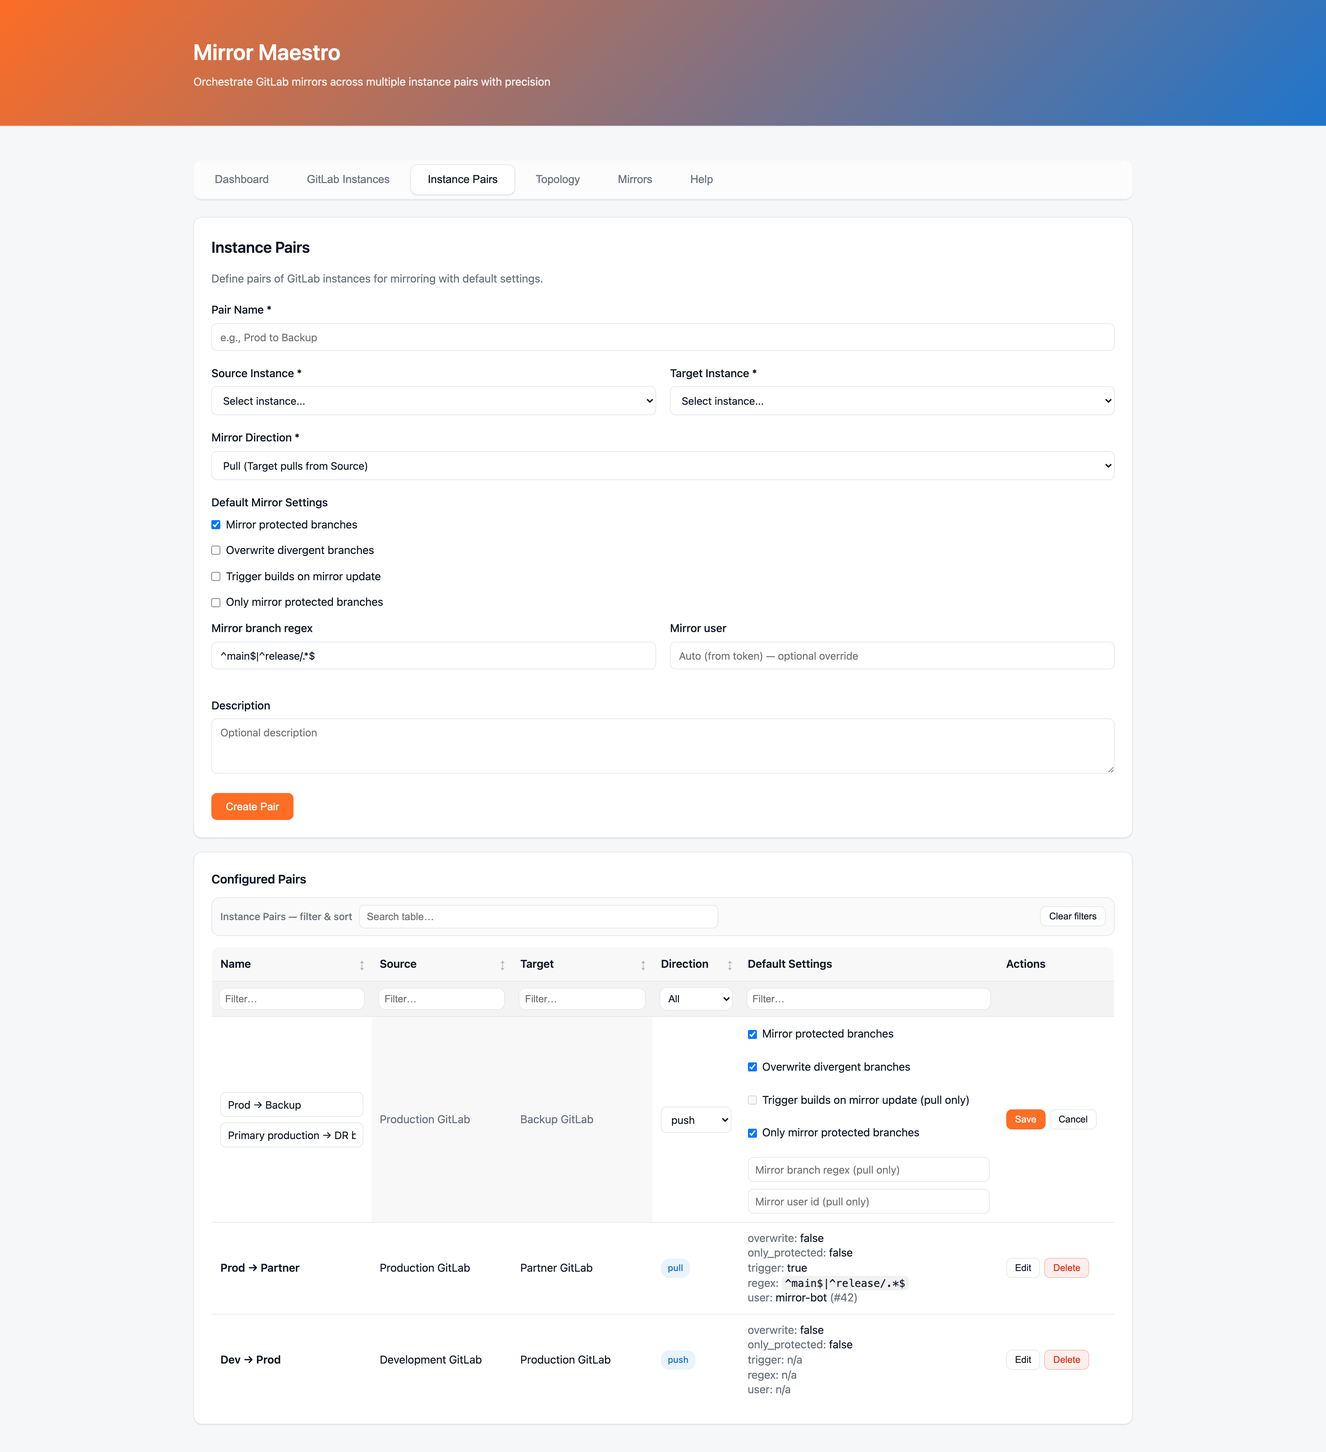
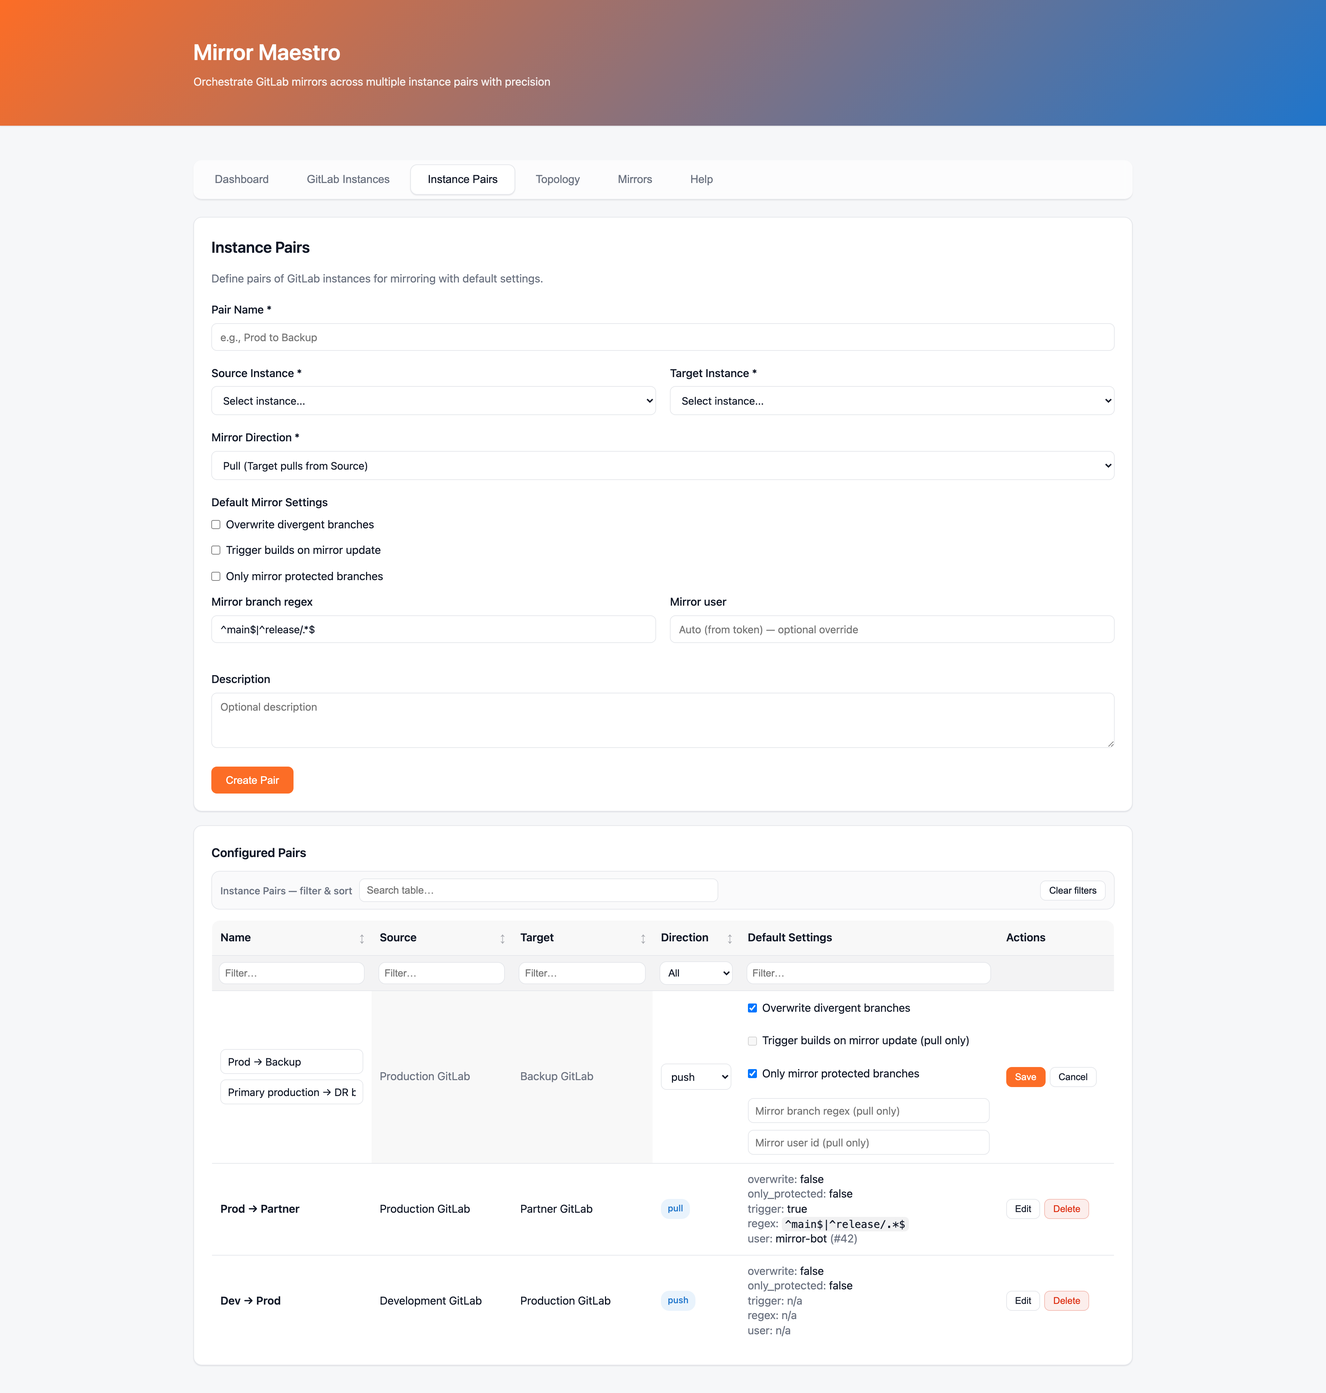
fix: Remove dead mirror_protected_branches field
This field was stored but never sent to GitLab's API. Only
only_mirror_protected_branches (mapping to GitLab's only_protected_branches
parameter) actually works.

Changes:
- Remove from InstancePair and Mirror models
- Remove from all API endpoints and Pydantic models
- Remove from frontend forms (pairs page)
- Update tests and documentation
- Regenerate screenshots with consistent settings

🤖 Generated with [Claude Code](https://claude.com/claude-code)

diff --git a/app/static/js/app.js b/app/static/js/app.js
@@ -1339,10 +1339,6 @@ function renderPairs(pairs) {
                     <td>
                         <div style="display:grid; gap:10px">
                             <div class="checkbox-group">
-                                <input type="checkbox" id="edit-pair-protected-${pair.id}" ${pair.mirror_protected_branches ? 'checked' : ''}>
-                                <label for="edit-pair-protected-${pair.id}">Mirror protected branches</label>
-                            </div>
-                            <div class="checkbox-group">
                                 <input type="checkbox" id="edit-pair-overwrite-${pair.id}" ${pair.mirror_overwrite_diverged ? 'checked' : ''}>
                                 <label for="edit-pair-overwrite-${pair.id}">Overwrite divergent branches</label>
                             </div>
@@ -1428,13 +1424,12 @@ async function savePairEdit(id) {
     const nameEl = document.getElementById(`edit-pair-name-${id}`);
     const descEl = document.getElementById(`edit-pair-description-${id}`);
     const dirEl = document.getElementById(`edit-pair-direction-${id}`);
-    const protectedEl = document.getElementById(`edit-pair-protected-${id}`);
     const overwriteEl = document.getElementById(`edit-pair-overwrite-${id}`);
     const triggerEl = document.getElementById(`edit-pair-trigger-${id}`);
     const onlyProtectedEl = document.getElementById(`edit-pair-only-protected-${id}`);
     const regexEl = document.getElementById(`edit-pair-regex-${id}`);
     const userEl = document.getElementById(`edit-pair-user-${id}`);
-    if (!nameEl || !dirEl || !protectedEl || !overwriteEl || !onlyProtectedEl) return;
+    if (!nameEl || !dirEl || !overwriteEl || !onlyProtectedEl) return;
 
     const direction = (dirEl.value || '').toString().toLowerCase();
     const isPush = direction === 'push';
@@ -1445,7 +1440,6 @@ async function savePairEdit(id) {
         name: (nameEl.value || '').toString().trim(),
         description: (descEl?.value || '').toString().trim() || null,
         mirror_direction: direction || 'pull',
-        mirror_protected_branches: !!protectedEl.checked,
         mirror_overwrite_diverged: !!overwriteEl.checked,
         only_mirror_protected_branches: !!onlyProtectedEl.checked,
         mirror_trigger_builds: isPush ? false : !!triggerEl?.checked,
@@ -1499,7 +1493,6 @@ async function createPair() {
         source_instance_id: parseInt(formData.get('source_instance_id')),
         target_instance_id: parseInt(formData.get('target_instance_id')),
         mirror_direction: formData.get('mirror_direction'),
-        mirror_protected_branches: formData.get('mirror_protected_branches') === 'on',
         mirror_overwrite_diverged: formData.get('mirror_overwrite_diverged') === 'on',
         mirror_trigger_builds: formData.get('mirror_trigger_builds') === 'on',
         only_mirror_protected_branches: formData.get('only_mirror_protected_branches') === 'on',

diff --git a/docs/screenshots/demo-pairs.html b/docs/screenshots/demo-pairs.html
@@ -71,10 +71,6 @@
                     <div class="form-group">
                         <label>Default Mirror Settings</label>
                         <div class="checkbox-group">
-                            <input type="checkbox" id="pair-protected" name="mirror_protected_branches" checked>
-                            <label for="pair-protected">Mirror protected branches</label>
-                        </div>
-                        <div class="checkbox-group">
                             <input type="checkbox" id="pair-overwrite" name="mirror_overwrite_diverged">
                             <label for="pair-overwrite">Overwrite divergent branches</label>
                         </div>
@@ -138,10 +134,6 @@
                             </td>
                             <td>
                                 <div style="display:grid; gap:10px">
-                                    <div class="checkbox-group">
-                                        <input type="checkbox" checked>
-                                        <label>Mirror protected branches</label>
-                                    </div>
                                     <div class="checkbox-group">
                                         <input type="checkbox" checked>
                                         <label>Overwrite divergent branches</label>

diff --git a/app/templates/index.html b/app/templates/index.html
@@ -235,10 +235,6 @@
                     <div class="form-group">
                         <label>Default Mirror Settings</label>
                         <div class="checkbox-group">
-                            <input type="checkbox" id="pair-protected" name="mirror_protected_branches" checked>
-                            <label for="pair-protected">Mirror protected branches</label>
-                        </div>
-                        <div class="checkbox-group">
                             <input type="checkbox" id="pair-overwrite" name="mirror_overwrite_diverged">
                             <label for="pair-overwrite">Overwrite divergent branches</label>
                         </div>

diff --git a/app/api/mirrors.py b/app/api/mirrors.py
@@ -95,7 +95,6 @@ class MirrorCreate(BaseModel):
     target_project_id: int
     target_project_path: str
     # Direction is determined by the instance pair, not overridable per-mirror
-    mirror_protected_branches: bool | None = None
     mirror_overwrite_diverged: bool | None = None
     mirror_trigger_builds: bool | None = None
     only_mirror_protected_branches: bool | None = None
@@ -190,7 +189,6 @@ class MirrorRemoveExisting(BaseModel):
 
 class MirrorUpdate(BaseModel):
     # Direction cannot be changed - it's determined by the instance pair
-    mirror_protected_branches: bool | None = None
     mirror_overwrite_diverged: bool | None = None
     mirror_trigger_builds: bool | None = None
     only_mirror_protected_branches: bool | None = None
@@ -218,7 +216,6 @@ class MirrorResponse(BaseModel):
     target_project_id: int
     target_project_path: str
     # Per-mirror setting overrides (direction is pair-only, not here)
-    mirror_protected_branches: bool | None
     mirror_overwrite_diverged: bool | None
     mirror_trigger_builds: bool | None
     only_mirror_protected_branches: bool | None
@@ -379,7 +376,6 @@ async def list_mirrors(
                 source_project_path=mirror.source_project_path,
                 target_project_id=mirror.target_project_id,
                 target_project_path=mirror.target_project_path,
-                mirror_protected_branches=mirror.mirror_protected_branches,
                 mirror_overwrite_diverged=mirror.mirror_overwrite_diverged,
                 mirror_trigger_builds=mirror.mirror_trigger_builds,
                 only_mirror_protected_branches=mirror.only_mirror_protected_branches,
@@ -459,11 +455,6 @@ async def create_mirror(
             detail=f"Invalid mirror direction: {direction}. Must be 'push' or 'pull'"
         )
 
-    protected_branches = (
-        mirror.mirror_protected_branches
-        if mirror.mirror_protected_branches is not None
-        else pair.mirror_protected_branches
-    )
     overwrite_diverged = (
         mirror.mirror_overwrite_diverged
         if mirror.mirror_overwrite_diverged is not None
@@ -624,7 +615,6 @@ async def create_mirror(
         target_project_id=mirror.target_project_id,
         target_project_path=mirror.target_project_path,
         # Direction is determined by pair, not stored on mirror
-        mirror_protected_branches=mirror.mirror_protected_branches,
         mirror_overwrite_diverged=mirror.mirror_overwrite_diverged,
         mirror_trigger_builds=mirror.mirror_trigger_builds,
         only_mirror_protected_branches=mirror.only_mirror_protected_branches,
@@ -683,7 +673,6 @@ async def create_mirror(
         source_project_path=db_mirror.source_project_path,
         target_project_id=db_mirror.target_project_id,
         target_project_path=db_mirror.target_project_path,
-        mirror_protected_branches=db_mirror.mirror_protected_branches,
         mirror_overwrite_diverged=db_mirror.mirror_overwrite_diverged,
         mirror_trigger_builds=db_mirror.mirror_trigger_builds,
         only_mirror_protected_branches=db_mirror.only_mirror_protected_branches,
@@ -839,7 +828,6 @@ async def get_mirror(
         source_project_path=mirror.source_project_path,
         target_project_id=mirror.target_project_id,
         target_project_path=mirror.target_project_path,
-        mirror_protected_branches=mirror.mirror_protected_branches,
         mirror_overwrite_diverged=mirror.mirror_overwrite_diverged,
         mirror_trigger_builds=mirror.mirror_trigger_builds,
         only_mirror_protected_branches=mirror.only_mirror_protected_branches,
@@ -878,8 +866,6 @@ async def update_mirror(
     # Important: allow clearing overrides by accepting explicit nulls in the payload.
     # (FastAPI/Pydantic v2 tracks presence via `model_fields_set`.)
     fields = getattr(mirror_update, "model_fields_set", set())
-    if "mirror_protected_branches" in fields:
-        mirror.mirror_protected_branches = mirror_update.mirror_protected_branches
     if "mirror_overwrite_diverged" in fields:
         mirror.mirror_overwrite_diverged = mirror_update.mirror_overwrite_diverged
     if "mirror_trigger_builds" in fields:
@@ -999,7 +985,6 @@ async def update_mirror(
         source_project_path=mirror.source_project_path,
         target_project_id=mirror.target_project_id,
         target_project_path=mirror.target_project_path,
-        mirror_protected_branches=mirror.mirror_protected_branches,
         mirror_overwrite_diverged=mirror.mirror_overwrite_diverged,
         mirror_trigger_builds=mirror.mirror_trigger_builds,
         only_mirror_protected_branches=mirror.only_mirror_protected_branches,

diff --git a/app/api/pairs.py b/app/api/pairs.py
@@ -18,7 +18,6 @@ class InstancePairCreate(BaseModel):
     source_instance_id: int
     target_instance_id: int
     mirror_direction: str = "pull"
-    mirror_protected_branches: bool = True
     mirror_overwrite_diverged: bool = False
     mirror_trigger_builds: bool = False
     only_mirror_protected_branches: bool = False
@@ -70,7 +69,6 @@ class InstancePairUpdate(BaseModel):
     source_instance_id: int | None = None
     target_instance_id: int | None = None
     mirror_direction: str | None = None
-    mirror_protected_branches: bool | None = None
     mirror_overwrite_diverged: bool | None = None
     mirror_trigger_builds: bool | None = None
     only_mirror_protected_branches: bool | None = None
@@ -124,7 +122,6 @@ class InstancePairResponse(BaseModel):
     source_instance_id: int
     target_instance_id: int
     mirror_direction: str
-    mirror_protected_branches: bool
     mirror_overwrite_diverged: bool
     mirror_trigger_builds: bool
     only_mirror_protected_branches: bool
@@ -152,7 +149,6 @@ async def list_pairs(
             source_instance_id=pair.source_instance_id,
             target_instance_id=pair.target_instance_id,
             mirror_direction=pair.mirror_direction,
-            mirror_protected_branches=pair.mirror_protected_branches,
             mirror_overwrite_diverged=pair.mirror_overwrite_diverged,
             mirror_trigger_builds=pair.mirror_trigger_builds,
             only_mirror_protected_branches=pair.only_mirror_protected_branches,
@@ -195,7 +191,6 @@ async def create_pair(
         source_instance_id=pair.source_instance_id,
         target_instance_id=pair.target_instance_id,
         mirror_direction=pair.mirror_direction,
-        mirror_protected_branches=pair.mirror_protected_branches,
         mirror_overwrite_diverged=pair.mirror_overwrite_diverged,
         mirror_trigger_builds=pair.mirror_trigger_builds,
         only_mirror_protected_branches=pair.only_mirror_protected_branches,
@@ -213,7 +208,6 @@ async def create_pair(
         source_instance_id=db_pair.source_instance_id,
         target_instance_id=db_pair.target_instance_id,
         mirror_direction=db_pair.mirror_direction,
-        mirror_protected_branches=db_pair.mirror_protected_branches,
         mirror_overwrite_diverged=db_pair.mirror_overwrite_diverged,
         mirror_trigger_builds=db_pair.mirror_trigger_builds,
         only_mirror_protected_branches=db_pair.only_mirror_protected_branches,
@@ -246,7 +240,6 @@ async def get_pair(
         source_instance_id=pair.source_instance_id,
         target_instance_id=pair.target_instance_id,
         mirror_direction=pair.mirror_direction,
-        mirror_protected_branches=pair.mirror_protected_branches,
         mirror_overwrite_diverged=pair.mirror_overwrite_diverged,
         mirror_trigger_builds=pair.mirror_trigger_builds,
         only_mirror_protected_branches=pair.only_mirror_protected_branches,
@@ -294,8 +287,6 @@ async def update_pair(
         pair.target_instance_id = pair_update.target_instance_id
     if "mirror_direction" in fields:
         pair.mirror_direction = pair_update.mirror_direction
-    if "mirror_protected_branches" in fields:
-        pair.mirror_protected_branches = pair_update.mirror_protected_branches
     if "mirror_overwrite_diverged" in fields:
         pair.mirror_overwrite_diverged = pair_update.mirror_overwrite_diverged
     if "mirror_trigger_builds" in fields:
@@ -318,7 +309,6 @@ async def update_pair(
         source_instance_id=pair.source_instance_id,
         target_instance_id=pair.target_instance_id,
         mirror_direction=pair.mirror_direction,
-        mirror_protected_branches=pair.mirror_protected_branches,
         mirror_overwrite_diverged=pair.mirror_overwrite_diverged,
         mirror_trigger_builds=pair.mirror_trigger_builds,
         only_mirror_protected_branches=pair.only_mirror_protected_branches,

diff --git a/tests/test_pairs_api.py b/tests/test_pairs_api.py
@@ -23,7 +23,6 @@ async def test_pairs_create_list_update_delete(client, session_maker):
         "source_instance_id": src_id,
         "target_instance_id": tgt_id,
         "mirror_direction": "pull",
-        "mirror_protected_branches": True,
         "mirror_overwrite_diverged": False,
         "mirror_trigger_builds": False,
         "only_mirror_protected_branches": False,
@@ -192,7 +191,6 @@ async def test_pairs_create_with_all_settings(client, session_maker):
             "source_instance_id": src_id,
             "target_instance_id": tgt_id,
             "mirror_direction": "pull",
-            "mirror_protected_branches": True,
             "mirror_overwrite_diverged": False,
             "mirror_trigger_builds": True,
             "only_mirror_protected_branches": True,
@@ -204,7 +202,6 @@ async def test_pairs_create_with_all_settings(client, session_maker):
     assert resp.status_code == 200
     data = resp.json()
     assert data["mirror_direction"] == "pull"
-    assert data["mirror_protected_branches"] is True
     assert data["mirror_overwrite_diverged"] is False
     assert data["mirror_trigger_builds"] is True
     assert data["only_mirror_protected_branches"] is True
@@ -236,14 +233,14 @@ async def test_pairs_update_multiple_fields(client, session_maker):
         json={
             "name": "renamed-pair",
             "description": "Updated description",
-            "mirror_protected_branches": True,
+            "mirror_overwrite_diverged": True,
         },
     )
     assert resp.status_code == 200
     data = resp.json()
     assert data["name"] == "renamed-pair"
     assert data["description"] == "Updated description"
-    assert data["mirror_protected_branches"] is True
+    assert data["mirror_overwrite_diverged"] is True
 
 
 @pytest.mark.asyncio

diff --git a/app/api/export.py b/app/api/export.py
@@ -35,7 +35,6 @@ class MirrorExport(BaseModel):
     source_project_id: int
     target_project_id: int
     # Direction is determined by pair, not stored per-mirror
-    mirror_protected_branches: bool | None = None
     mirror_overwrite_diverged: bool | None = None
     mirror_trigger_builds: bool | None = None
     only_mirror_protected_branches: bool | None = None
@@ -83,7 +82,6 @@ async def export_pair_mirrors(
             target_project_path=m.target_project_path,
             source_project_id=m.source_project_id,
             target_project_id=m.target_project_id,
-            mirror_protected_branches=m.mirror_protected_branches,
             mirror_overwrite_diverged=m.mirror_overwrite_diverged,
             mirror_trigger_builds=m.mirror_trigger_builds,
             only_mirror_protected_branches=m.only_mirror_protected_branches,
@@ -157,7 +155,6 @@ async def import_pair_mirrors(
                 source_project_path=mirror_data.source_project_path,
                 target_project_id=mirror_data.target_project_id,
                 target_project_path=mirror_data.target_project_path,
-                mirror_protected_branches=mirror_data.mirror_protected_branches,
                 mirror_overwrite_diverged=mirror_data.mirror_overwrite_diverged,
                 mirror_trigger_builds=mirror_data.mirror_trigger_builds,
                 only_mirror_protected_branches=mirror_data.only_mirror_protected_branches,

diff --git a/tests/test_export_api.py b/tests/test_export_api.py
@@ -91,7 +91,6 @@ async def test_import_pair_mirrors_imports_and_skips_duplicates(client, session_
                 "source_project_id": 1,
                 "target_project_id": 2,
                 # Direction is determined by pair, not stored per-mirror
-                "mirror_protected_branches": None,
                 "mirror_overwrite_diverged": None,
                 "mirror_trigger_builds": None,
                 "only_mirror_protected_branches": None,
@@ -187,7 +186,6 @@ async def test_import_pair_with_all_mirror_settings(client, session_maker):
                 "source_project_id": 100,
                 "target_project_id": 200,
                 # Direction is determined by pair, not stored per-mirror
-                "mirror_protected_branches": True,
                 "mirror_overwrite_diverged": False,
                 "mirror_trigger_builds": True,
                 "only_mirror_protected_branches": True,
@@ -214,7 +212,6 @@ async def test_import_pair_with_all_mirror_settings(client, session_maker):
         )
         mirror = result.scalar_one()
         # Direction comes from pair, not stored on mirror
-        assert mirror.mirror_protected_branches is True
         assert mirror.mirror_overwrite_diverged is False
         assert mirror.mirror_trigger_builds is True
         assert mirror.only_mirror_protected_branches is True

diff --git a/scripts/seed_data.py b/scripts/seed_data.py
@@ -70,7 +70,6 @@ async def seed_database():
                 source_instance_id=instances[0].id,
                 target_instance_id=instances[1].id,
                 mirror_direction="push",
-                mirror_protected_branches=True,
                 mirror_overwrite_diverged=False,
                 mirror_trigger_builds=False,
                 only_mirror_protected_branches=False,
@@ -81,7 +80,6 @@ async def seed_database():
                 source_instance_id=instances[0].id,
                 target_instance_id=instances[3].id,
                 mirror_direction="pull",
-                mirror_protected_branches=True,
                 mirror_overwrite_diverged=True,
                 mirror_trigger_builds=True,
                 only_mirror_protected_branches=True,
@@ -92,7 +90,6 @@ async def seed_database():
                 source_instance_id=instances[2].id,
                 target_instance_id=instances[0].id,
                 mirror_direction="push",
-                mirror_protected_branches=True,
                 mirror_overwrite_diverged=False,
                 mirror_trigger_builds=True,
                 only_mirror_protected_branches=False,

diff --git a/app/models.py b/app/models.py
@@ -36,7 +36,6 @@ class InstancePair(Base):
 
     # Default mirror settings for this pair
     mirror_direction: Mapped[str] = mapped_column(String(10), default="pull", nullable=False)  # "pull" or "push"
-    mirror_protected_branches: Mapped[bool] = mapped_column(Boolean, default=True)
     mirror_overwrite_diverged: Mapped[bool] = mapped_column(Boolean, default=False)
     mirror_trigger_builds: Mapped[bool] = mapped_column(Boolean, default=False)
     only_mirror_protected_branches: Mapped[bool] = mapped_column(Boolean, default=False)
@@ -67,7 +66,6 @@ class Mirror(Base):
     target_project_path: Mapped[str] = mapped_column(String(500), nullable=False)
 
     # Mirror settings (can override instance pair defaults, except direction which is pair-only)
-    mirror_protected_branches: Mapped[Optional[bool]] = mapped_column(Boolean)
     mirror_overwrite_diverged: Mapped[Optional[bool]] = mapped_column(Boolean)
     mirror_trigger_builds: Mapped[Optional[bool]] = mapped_column(Boolean)
     only_mirror_protected_branches: Mapped[Optional[bool]] = mapped_column(Boolean)

diff --git a/CLAUDE.md b/CLAUDE.md
@@ -903,7 +903,7 @@ def resolve_mirror_settings(mirror: Mirror, pair: InstancePair) -> dict:
         "mirror_direction": pair.mirror_direction,
     }
 
-    for setting in ["mirror_protected_branches", "mirror_overwrite_diverged"]:
+    for setting in ["mirror_overwrite_diverged", "only_mirror_protected_branches"]:
         # Try mirror-level override
         mirror_value = getattr(mirror, setting)
         if mirror_value is not None:
@@ -1026,8 +1026,8 @@ class MirrorCreate(BaseModel):
     source_project_path: str
     target_project_id: int
     target_project_path: str
-    mirror_protected_branches: Optional[bool] = None
     mirror_overwrite_diverged: Optional[bool] = None
+    only_mirror_protected_branches: Optional[bool] = None
     # ... other optional overrides
 
 # Response body
@@ -1090,7 +1090,7 @@ async def update_mirror(id: int, mirror_data: MirrorUpdate, db: AsyncSession = D
         setattr(mirror, field, value)
 
     # This allows clearing overrides by sending null:
-    # {"mirror_protected_branches": null}  -> clears override, inherits from group/pair
+    # {"mirror_overwrite_diverged": null}  -> clears override, inherits from pair
 ```
 
 ## Frontend Patterns
@@ -1754,7 +1754,7 @@ async def _maybe_migrate_sqlite():
 ```python
 MIRROR_SETTING_FIELDS = [
     "mirror_direction",
-    "mirror_protected_branches",
+    "mirror_overwrite_diverged",
     # ... existing fields ...
     "new_setting"  # Add here
 ]
